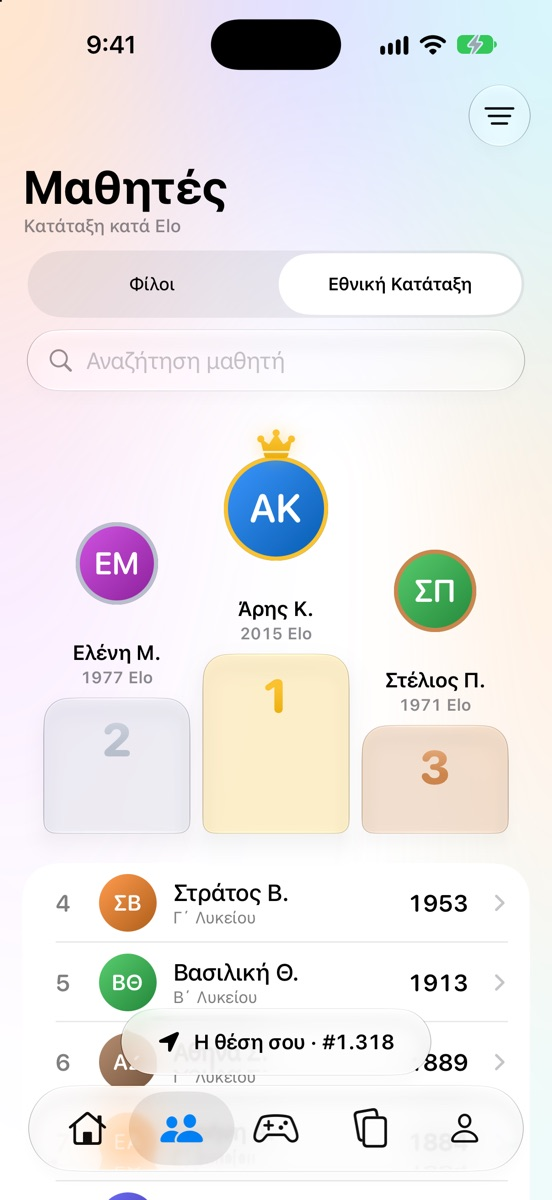
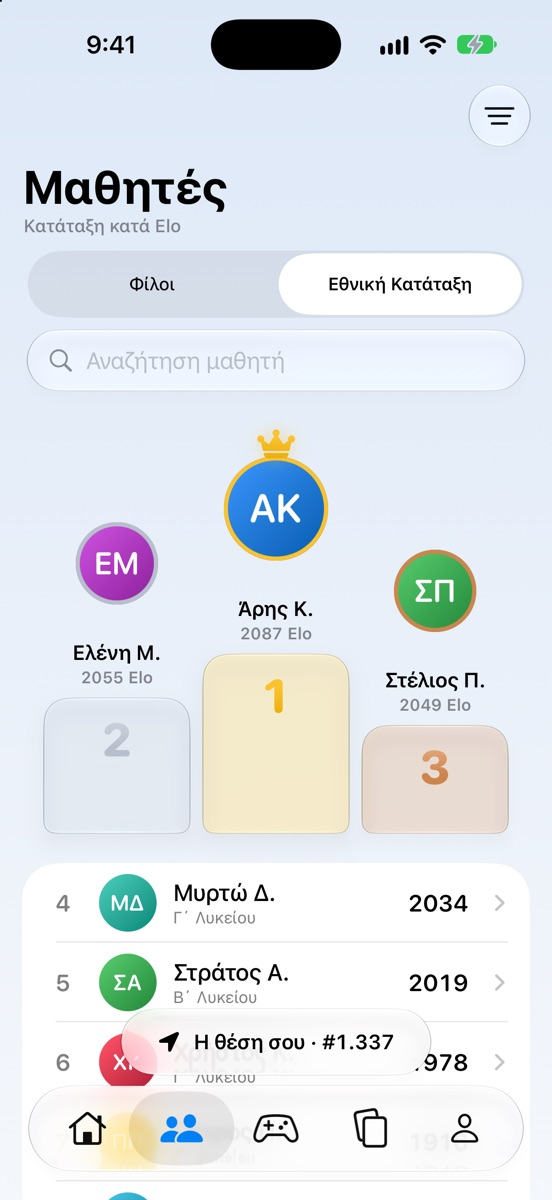
Νέες εικόνες της εφαρμογής με το γαλάζιο φόντο

diff --git a/index.html b/index.html
@@ -127,7 +127,7 @@
           <li>Βλέπεις πόση ώρα συγκεντρώθηκες κάθε μέρα της εβδομάδας.</li>
         </ul>
       </div>
-      <figure class="shot"><div class="phone"><img src="/assets/screens/focus.jpg?v=a89b6d9c" alt="Μια συνεδρία συγκέντρωσης σε εξέλιξη, με σχεδόν μία ώρα που απομένει και την ώρα που λήγει." width="552" height="1200" loading="lazy"></div></figure>
+      <figure class="shot"><div class="phone"><img src="/assets/screens/focus.jpg?v=74f2f09a" alt="Μια συνεδρία συγκέντρωσης σε εξέλιξη, με σχεδόν μία ώρα που απομένει και την ώρα που λήγει." width="552" height="1200" loading="lazy"></div></figure>
     </article>
 
     <article class="feature feature-flip">
@@ -139,7 +139,7 @@
           <li>Στην Εθνική Κατάταξη βλέπεις όλους τους μαθητές ή μόνο όσους είναι στην τάξη σου.</li>
         </ul>
       </div>
-      <figure class="shot"><div class="phone"><img src="/assets/screens/ranking.jpg?v=33e24664" alt="Η Εθνική Κατάταξη με βάθρο για τους τρεις πρώτους μαθητές." width="552" height="1200" loading="lazy"></div></figure>
+      <figure class="shot"><div class="phone"><img src="/assets/screens/ranking.jpg?v=d70044f7" alt="Η Εθνική Κατάταξη με βάθρο για τους τρεις πρώτους μαθητές." width="552" height="1200" loading="lazy"></div></figure>
     </article>
   </div>
 </section>
